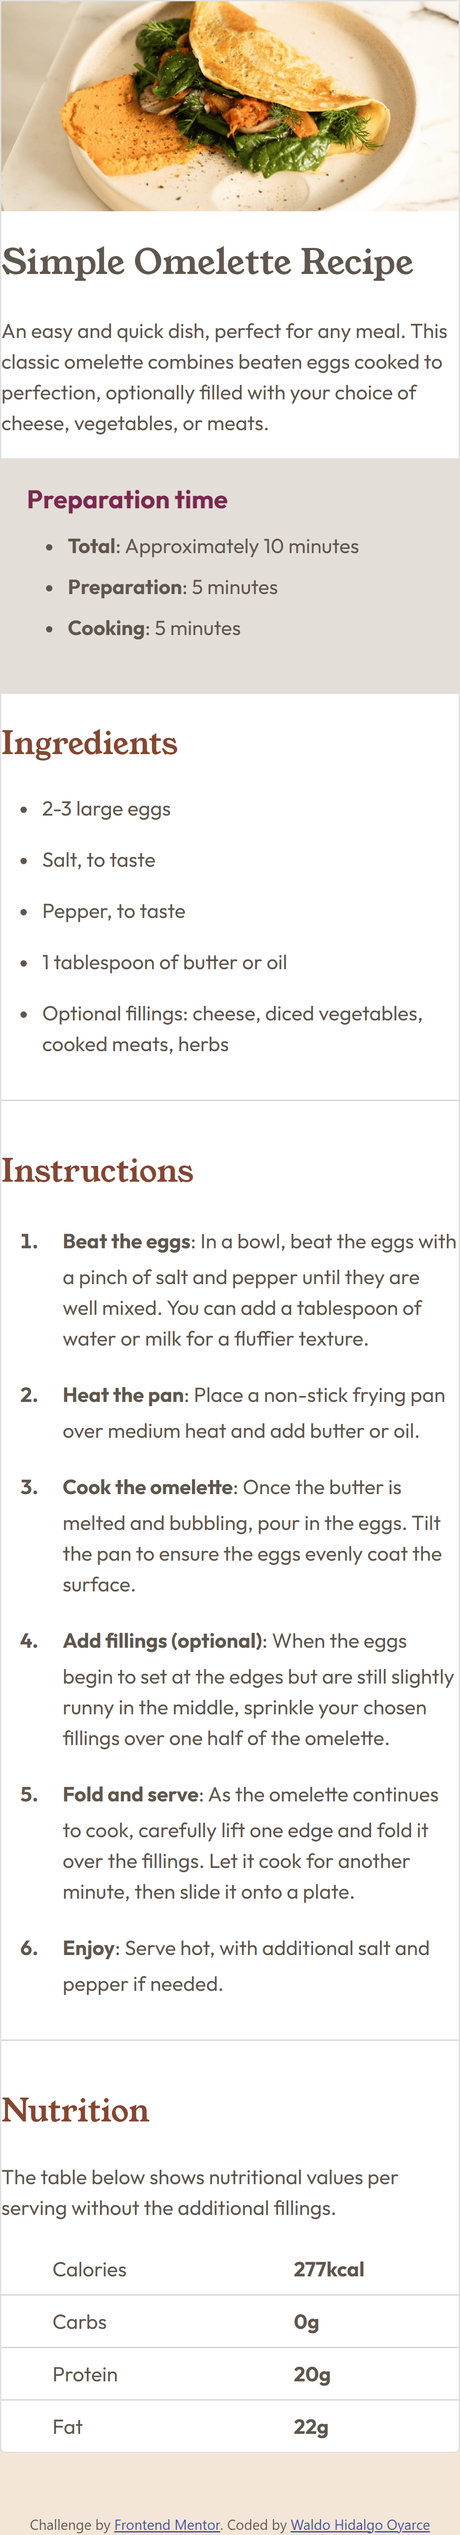
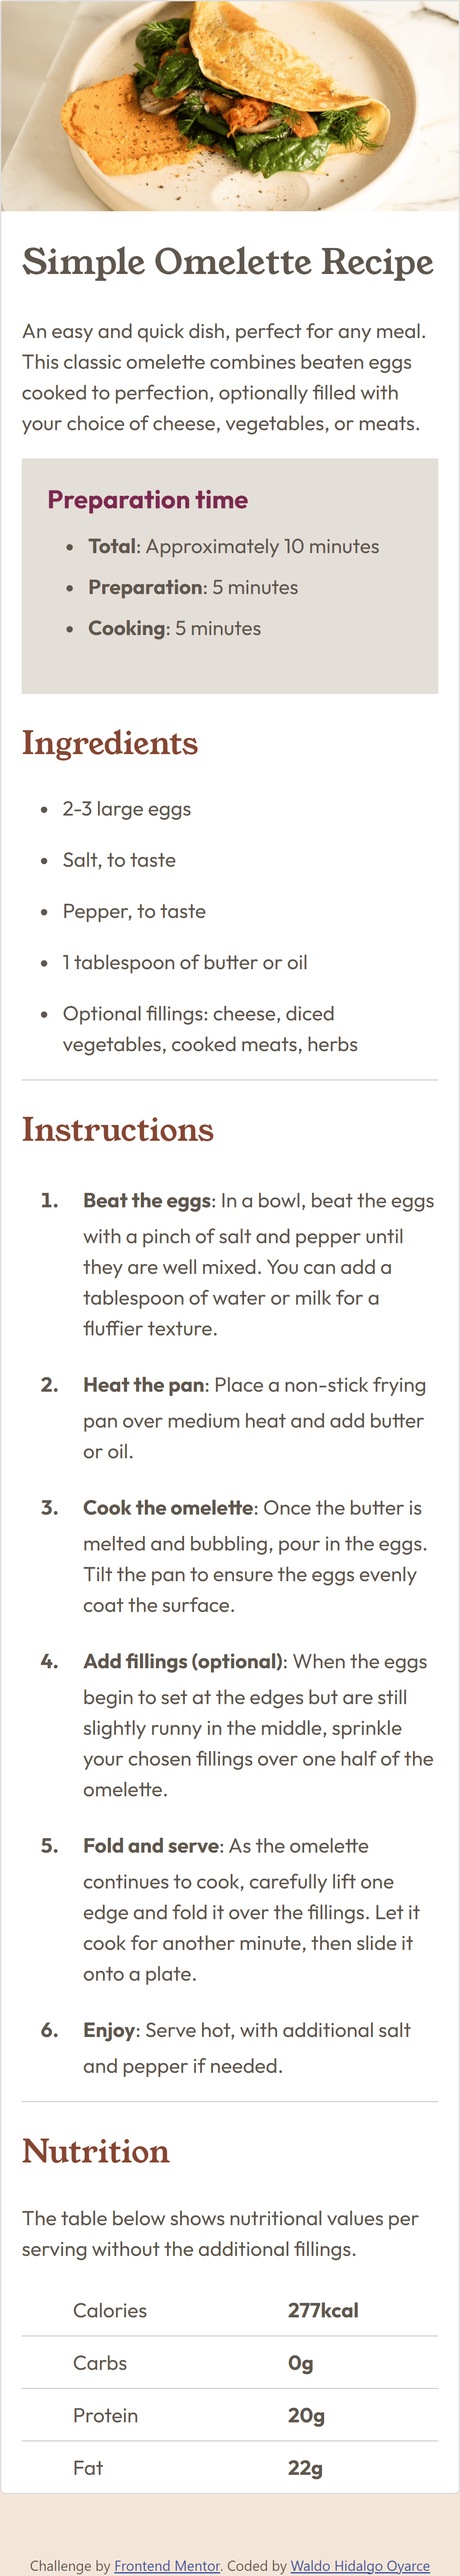
add padding inline small devices

diff --git a/index.html b/index.html
@@ -27,92 +27,94 @@
         src="./assets/images/image-omelette.jpeg"
         alt="Image Omelette"
       />
-      <h1>Simple Omelette Recipe</h1>
-      <p>
-        An easy and quick dish, perfect for any meal. This classic omelette
-        combines beaten eggs cooked to perfection, optionally filled with your
-        choice of cheese, vegetables, or meats.
-      </p>
-      <article class="preparation_time">
-        <h3>Preparation time</h3>
-        <ul>
-          <li><span>Total</span>: Approximately 10 minutes</li>
-          <li><span>Preparation</span>: 5 minutes</li>
-          <li><span>Cooking</span>: 5 minutes</li>
-        </ul>
-      </article>
-      <article class="ingredients">
-        <h2>Ingredients</h2>
-        <ul>
-          <li>2-3 large eggs</li>
-          <li>Salt, to taste</li>
-          <li>Pepper, to taste</li>
-          <li>1 tablespoon of butter or oil</li>
-          <li>
-            Optional fillings: cheese, diced vegetables, cooked meats, herbs
-          </li>
-        </ul>
-      </article>
-      <hr />
-      <article class="instructions">
-        <h2>Instructions</h2>
-        <ol>
-          <li>
-            <span>Beat the eggs</span>: In a bowl, beat the eggs with a pinch of
-            salt and pepper until they are well mixed. You can add a tablespoon
-            of water or milk for a fluffier texture.
-          </li>
-          <li>
-            <span>Heat the pan</span>: Place a non-stick frying pan over medium
-            heat and add butter or oil.
-          </li>
-          <li>
-            <span>Cook the omelette</span>: Once the butter is melted and
-            bubbling, pour in the eggs. Tilt the pan to ensure the eggs evenly
-            coat the surface.
-          </li>
-          <li>
-            <span>Add fillings (optional)</span>: When the eggs begin to set at
-            the edges but are still slightly runny in the middle, sprinkle your
-            chosen fillings over one half of the omelette.
-          </li>
-          <li>
-            <span>Fold and serve</span>: As the omelette continues to cook,
-            carefully lift one edge and fold it over the fillings. Let it cook
-            for another minute, then slide it onto a plate.
-          </li>
-          <li>
-            <span>Enjoy</span>: Serve hot, with additional salt and pepper if
-            needed.
-          </li>
-        </ol>
-      </article>
-      <hr />
-      <article class="nutrition">
-        <h2>Nutrition</h2>
+      <div class="card_contenido">
+        <h1>Simple Omelette Recipe</h1>
         <p>
-          The table below shows nutritional values per serving without the
-          additional fillings.
+          An easy and quick dish, perfect for any meal. This classic omelette
+          combines beaten eggs cooked to perfection, optionally filled with your
+          choice of cheese, vegetables, or meats.
         </p>
-        <table>
-          <tr>
-            <td>Calories</td>
-            <td>277kcal</td>
-          </tr>
-          <tr>
-            <td>Carbs</td>
-            <td>0g</td>
-          </tr>
-          <tr>
-            <td>Protein</td>
-            <td>20g</td>
-          </tr>
-          <tr>
-            <td>Fat</td>
-            <td>22g</td>
-          </tr>
-        </table>
-      </article>
+        <article class="preparation_time">
+          <h3>Preparation time</h3>
+          <ul>
+            <li><span>Total</span>: Approximately 10 minutes</li>
+            <li><span>Preparation</span>: 5 minutes</li>
+            <li><span>Cooking</span>: 5 minutes</li>
+          </ul>
+        </article>
+        <article class="ingredients">
+          <h2>Ingredients</h2>
+          <ul>
+            <li>2-3 large eggs</li>
+            <li>Salt, to taste</li>
+            <li>Pepper, to taste</li>
+            <li>1 tablespoon of butter or oil</li>
+            <li>
+              Optional fillings: cheese, diced vegetables, cooked meats, herbs
+            </li>
+          </ul>
+        </article>
+        <hr />
+        <article class="instructions">
+          <h2>Instructions</h2>
+          <ol>
+            <li>
+              <span>Beat the eggs</span>: In a bowl, beat the eggs with a pinch
+              of salt and pepper until they are well mixed. You can add a
+              tablespoon of water or milk for a fluffier texture.
+            </li>
+            <li>
+              <span>Heat the pan</span>: Place a non-stick frying pan over
+              medium heat and add butter or oil.
+            </li>
+            <li>
+              <span>Cook the omelette</span>: Once the butter is melted and
+              bubbling, pour in the eggs. Tilt the pan to ensure the eggs evenly
+              coat the surface.
+            </li>
+            <li>
+              <span>Add fillings (optional)</span>: When the eggs begin to set
+              at the edges but are still slightly runny in the middle, sprinkle
+              your chosen fillings over one half of the omelette.
+            </li>
+            <li>
+              <span>Fold and serve</span>: As the omelette continues to cook,
+              carefully lift one edge and fold it over the fillings. Let it cook
+              for another minute, then slide it onto a plate.
+            </li>
+            <li>
+              <span>Enjoy</span>: Serve hot, with additional salt and pepper if
+              needed.
+            </li>
+          </ol>
+        </article>
+        <hr />
+        <article class="nutrition">
+          <h2>Nutrition</h2>
+          <p>
+            The table below shows nutritional values per serving without the
+            additional fillings.
+          </p>
+          <table>
+            <tr>
+              <td>Calories</td>
+              <td>277kcal</td>
+            </tr>
+            <tr>
+              <td>Carbs</td>
+              <td>0g</td>
+            </tr>
+            <tr>
+              <td>Protein</td>
+              <td>20g</td>
+            </tr>
+            <tr>
+              <td>Fat</td>
+              <td>22g</td>
+            </tr>
+          </table>
+        </article>
+      </div>
     </main>
 
     <div class="attribution">

diff --git a/assets/css/style.css b/assets/css/style.css
@@ -28,6 +28,12 @@ body {
   font-family: var(--font-body);
   color: var(--color-texto);
 }
+.card_contenido {
+  padding-inline: 1rem;
+  @media screen and (min-width: 468px) {
+    padding-inline: 0;
+  }
+}
 
 ul {
   list-style: disc;
